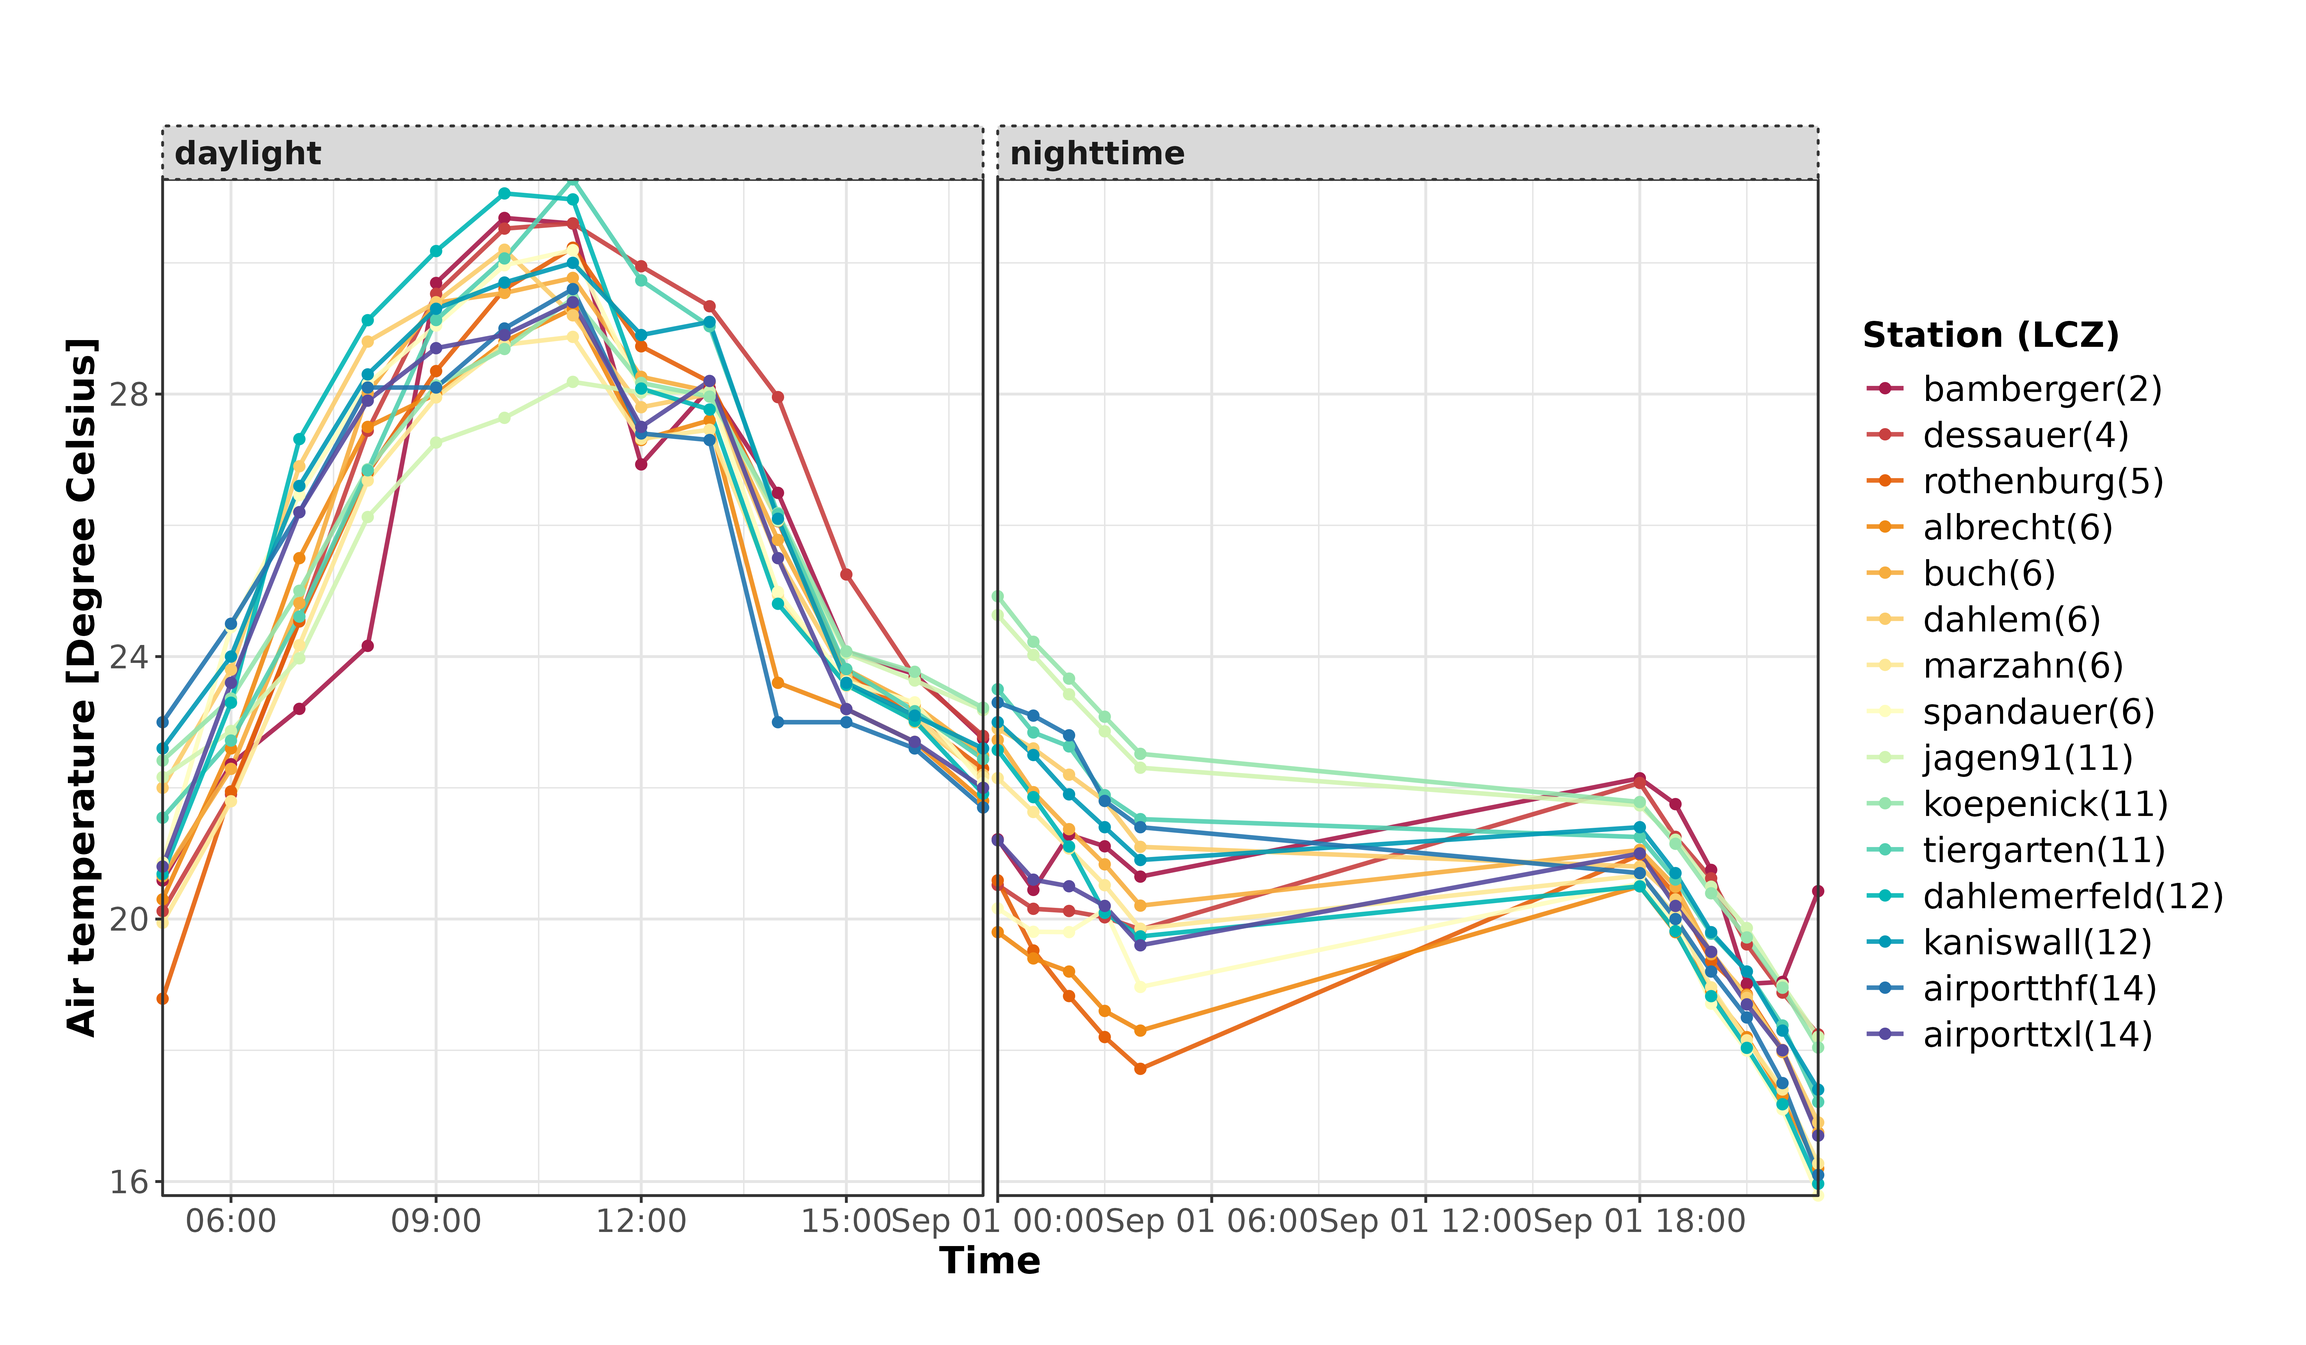
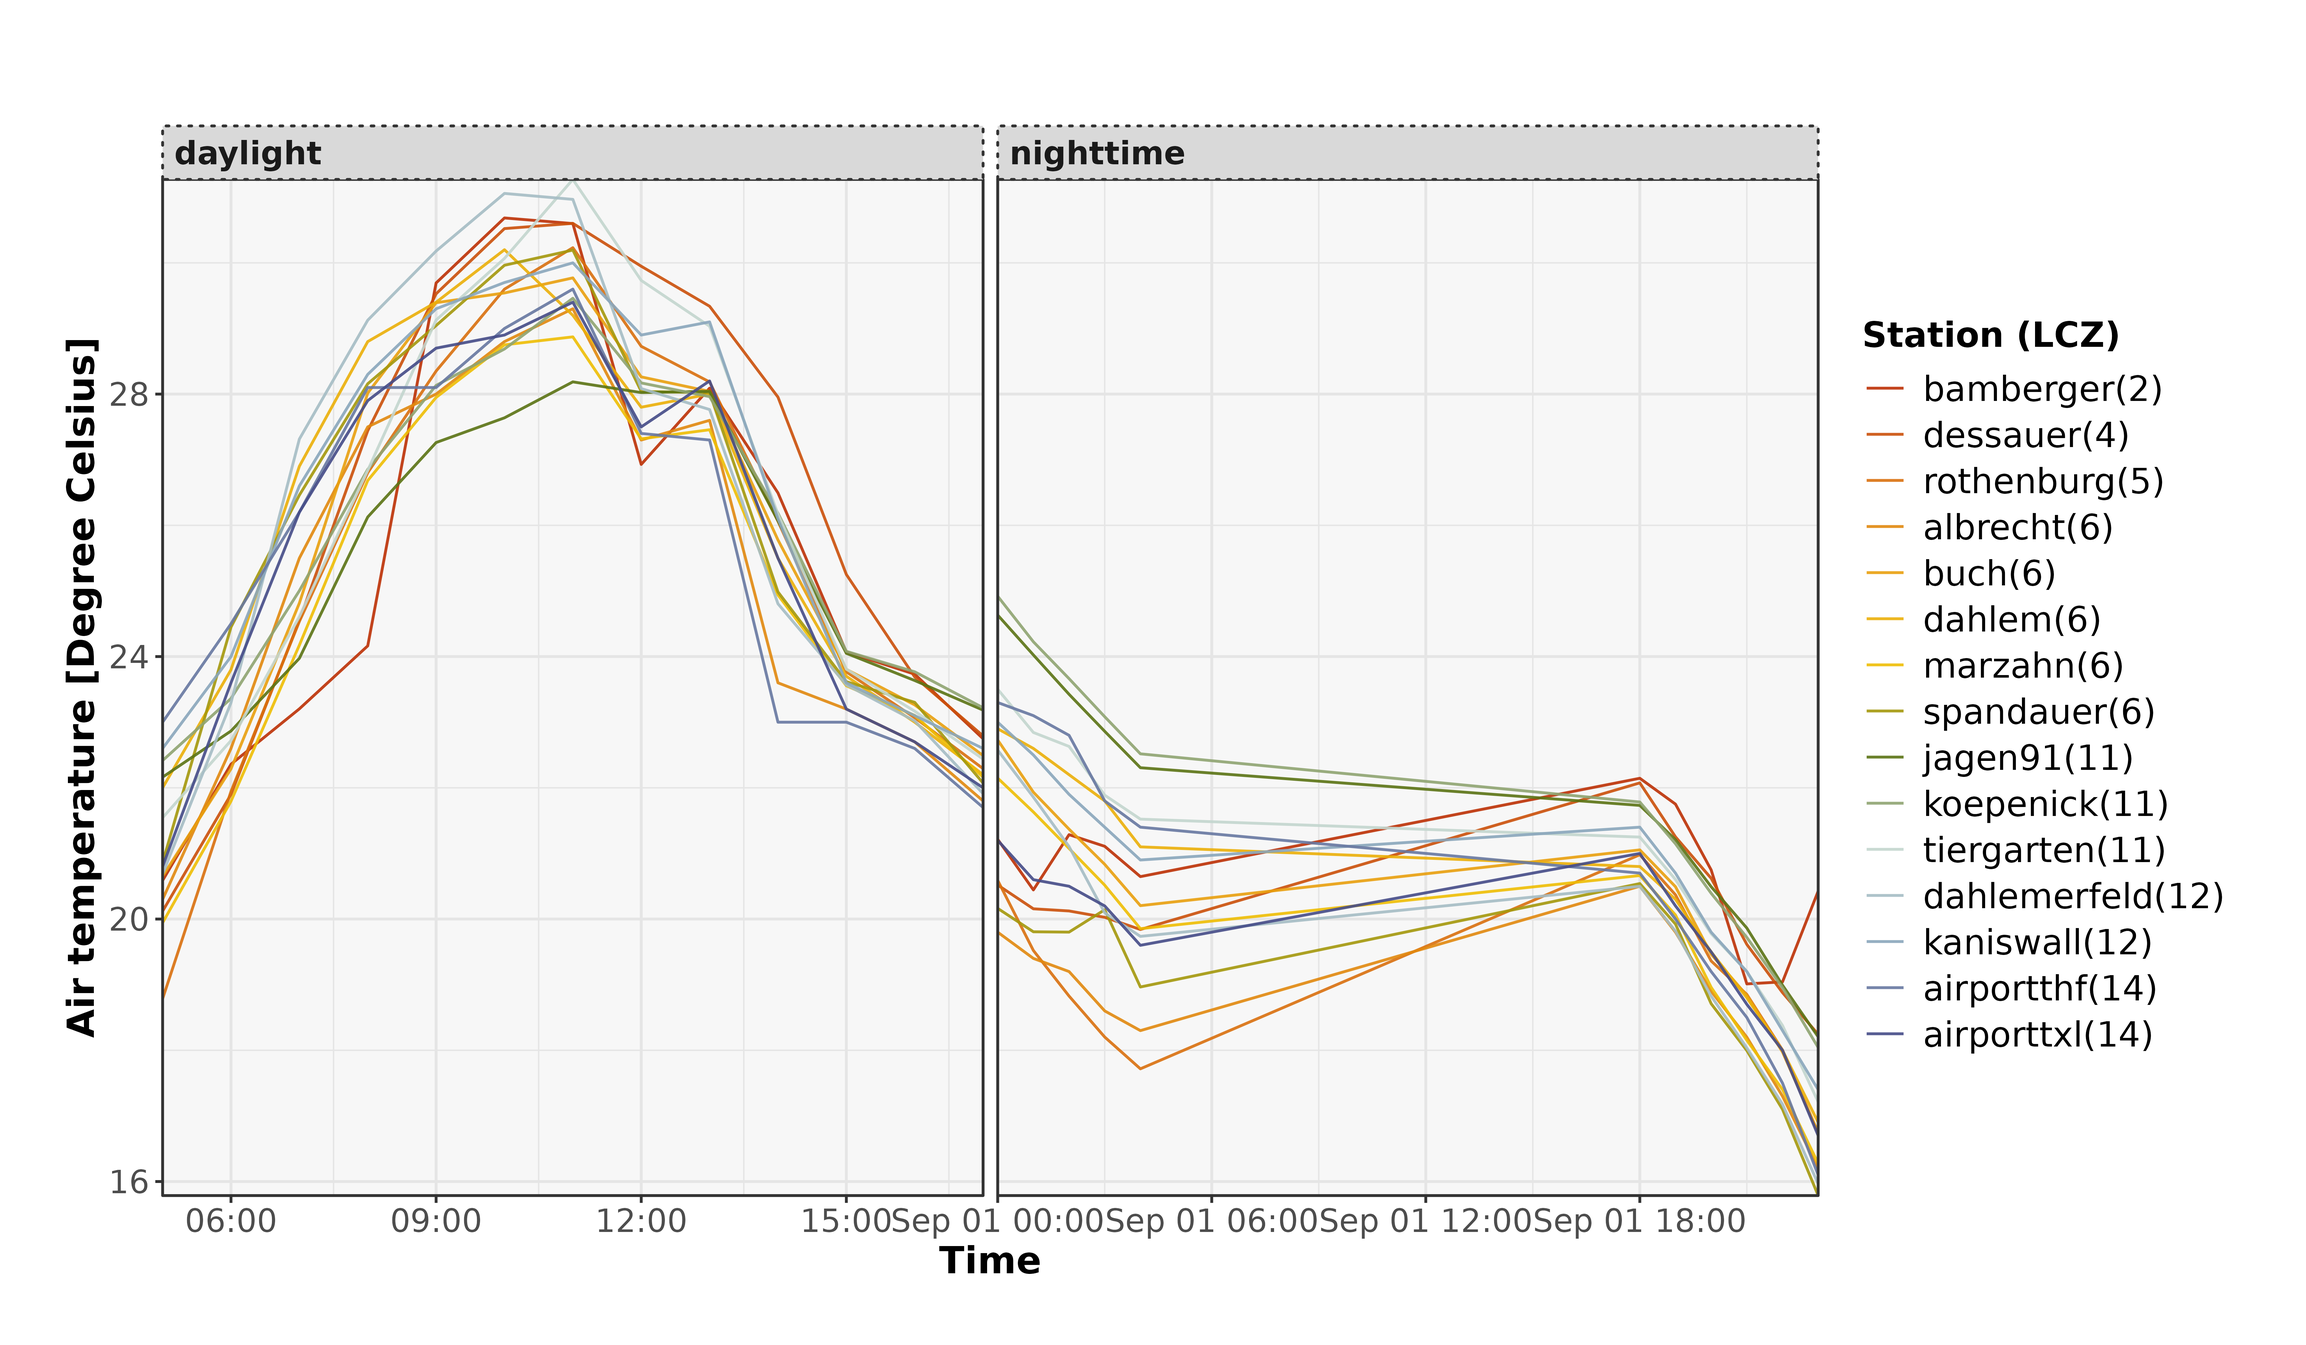
Deploying to gh-pages from @ ByMaxAnjos/LCZ4r@7843a9ae664aeb94a55305f6e3a9da8e8d025f74 🚀

Changed region(s): [[0.0625, 0.1248, 0.8125, 0.8733]]

diff --git a/reference/lcz_tutorial.html b/reference/lcz_tutorial.html
@@ -1,0 +1,99 @@
+<!DOCTYPE html>
+<!-- Generated by pkgdown: do not edit by hand --><html lang="en"><head><meta http-equiv="Content-Type" content="text/html; charset=UTF-8"><meta charset="utf-8"><meta http-equiv="X-UA-Compatible" content="IE=edge"><meta name="viewport" content="width=device-width, initial-scale=1, shrink-to-fit=no"><meta name="description" content="Opens LCZ4r tutorial on a web browser. This function requires internet connection"><title>LCZ4r tutorials — lcz_tutorial • LCZ4r</title><script src="../deps/jquery-3.6.0/jquery-3.6.0.min.js"></script><meta name="viewport" content="width=device-width, initial-scale=1, shrink-to-fit=no"><link href="../deps/bootstrap-5.3.1/bootstrap.min.css" rel="stylesheet"><script src="../deps/bootstrap-5.3.1/bootstrap.bundle.min.js"></script><!-- Font Awesome icons --><link rel="stylesheet" href="https://cdnjs.cloudflare.com/ajax/libs/font-awesome/5.12.1/css/all.min.css" integrity="sha256-mmgLkCYLUQbXn0B1SRqzHar6dCnv9oZFPEC1g1cwlkk=" crossorigin="anonymous"><link rel="stylesheet" href="https://cdnjs.cloudflare.com/ajax/libs/font-awesome/5.12.1/css/v4-shims.min.css" integrity="sha256-wZjR52fzng1pJHwx4aV2AO3yyTOXrcDW7jBpJtTwVxw=" crossorigin="anonymous"><!-- bootstrap-toc --><script src="https://cdn.jsdelivr.net/gh/afeld/bootstrap-toc@v1.0.1/dist/bootstrap-toc.min.js" integrity="sha256-4veVQbu7//Lk5TSmc7YV48MxtMy98e26cf5MrgZYnwo=" crossorigin="anonymous"></script><!-- headroom.js --><script src="https://cdnjs.cloudflare.com/ajax/libs/headroom/0.11.0/headroom.min.js" integrity="sha256-AsUX4SJE1+yuDu5+mAVzJbuYNPHj/WroHuZ8Ir/CkE0=" crossorigin="anonymous"></script><script src="https://cdnjs.cloudflare.com/ajax/libs/headroom/0.11.0/jQuery.headroom.min.js" integrity="sha256-ZX/yNShbjqsohH1k95liqY9Gd8uOiE1S4vZc+9KQ1K4=" crossorigin="anonymous"></script><!-- clipboard.js --><script src="https://cdnjs.cloudflare.com/ajax/libs/clipboard.js/2.0.11/clipboard.min.js" integrity="sha512-7O5pXpc0oCRrxk8RUfDYFgn0nO1t+jLuIOQdOMRp4APB7uZ4vSjspzp5y6YDtDs4VzUSTbWzBFZ/LKJhnyFOKw==" crossorigin="anonymous" referrerpolicy="no-referrer"></script><!-- search --><script src="https://cdnjs.cloudflare.com/ajax/libs/fuse.js/6.4.6/fuse.js" integrity="sha512-zv6Ywkjyktsohkbp9bb45V6tEMoWhzFzXis+LrMehmJZZSys19Yxf1dopHx7WzIKxr5tK2dVcYmaCk2uqdjF4A==" crossorigin="anonymous"></script><script src="https://cdnjs.cloudflare.com/ajax/libs/autocomplete.js/0.38.0/autocomplete.jquery.min.js" integrity="sha512-GU9ayf+66Xx2TmpxqJpliWbT5PiGYxpaG8rfnBEk1LL8l1KGkRShhngwdXK1UgqhAzWpZHSiYPc09/NwDQIGyg==" crossorigin="anonymous"></script><script src="https://cdnjs.cloudflare.com/ajax/libs/mark.js/8.11.1/mark.min.js" integrity="sha512-5CYOlHXGh6QpOFA/TeTylKLWfB3ftPsde7AnmhuitiTX4K5SqCLBeKro6sPS8ilsz1Q4NRx3v8Ko2IBiszzdww==" crossorigin="anonymous"></script><!-- pkgdown --><script src="../pkgdown.js"></script><meta property="og:title" content="LCZ4r tutorials — lcz_tutorial"><meta property="og:description" content="Opens LCZ4r tutorial on a web browser. This function requires internet connection"><!-- mathjax --><script src="https://cdnjs.cloudflare.com/ajax/libs/mathjax/2.7.5/MathJax.js" integrity="sha256-nvJJv9wWKEm88qvoQl9ekL2J+k/RWIsaSScxxlsrv8k=" crossorigin="anonymous"></script><script src="https://cdnjs.cloudflare.com/ajax/libs/mathjax/2.7.5/config/TeX-AMS-MML_HTMLorMML.js" integrity="sha256-84DKXVJXs0/F8OTMzX4UR909+jtl4G7SPypPavF+GfA=" crossorigin="anonymous"></script><!--[if lt IE 9]>
+<script src="https://oss.maxcdn.com/html5shiv/3.7.3/html5shiv.min.js"></script>
+<script src="https://oss.maxcdn.com/respond/1.4.2/respond.min.js"></script>
+<![endif]--></head><body>
+    <a href="#main" class="visually-hidden-focusable">Skip to contents</a>
+    
+
+    <nav class="navbar fixed-top navbar-dark navbar-expand-lg bg-primary" data-bs-theme="dark"><div class="container">
+    
+    <a class="navbar-brand me-2" href="../index.html">LCZ4r</a>
+
+    <small class="nav-text text-muted me-auto" data-bs-toggle="tooltip" data-bs-placement="bottom" title="Released version">0.1.0</small>
+
+    
+    <button class="navbar-toggler" type="button" data-bs-toggle="collapse" data-bs-target="#navbar" aria-controls="navbar" aria-expanded="false" aria-label="Toggle navigation">
+      <span class="navbar-toggler-icon"></span>
+    </button>
+
+    <div id="navbar" class="collapse navbar-collapse ms-3">
+      <ul class="navbar-nav me-auto"><li class="active nav-item">
+  <a class="nav-link" href="../reference/index.html">Reference</a>
+</li>
+<li class="nav-item dropdown">
+  <a href="#" class="nav-link dropdown-toggle" data-bs-toggle="dropdown" role="button" aria-expanded="false" aria-haspopup="true" id="dropdown-articles">Articles</a>
+  <div class="dropdown-menu" aria-labelledby="dropdown-articles">
+    <a class="dropdown-item" href="../articles/Introd_general_LCZ4r.html">LCZ4r General Functions</a>
+    <a class="dropdown-item" href="../articles/Introd_local_LCZ4r.html">LCZ4r Local Functions</a>
+    <a class="dropdown-item" href="../articles/instalation_lcz4r.html">Install LCZ4r</a>
+  </div>
+</li>
+      </ul><form class="form-inline my-2 my-lg-0" role="search">
+        <input type="search" class="form-control me-sm-2" aria-label="Toggle navigation" name="search-input" data-search-index="../search.json" id="search-input" placeholder="Search for" autocomplete="off"></form>
+
+      <ul class="navbar-nav"><li class="nav-item">
+  <a class="external-link nav-link" href="https://github.com/ByMaxAnjos/LCZ4r/" aria-label="github">
+    <span class="fab fa fab fa-github fa-lg"></span>
+     
+  </a>
+</li>
+      </ul></div>
+
+    
+  </div>
+</nav><div class="container template-reference-topic">
+<div class="row">
+  <main id="main" class="col-md-9"><div class="page-header">
+      <img src="" class="logo" alt=""><h1>LCZ4r tutorials</h1>
+      <small class="dont-index">Source: <a href="https://github.com/ByMaxAnjos/LCZ4r/blob/HEAD/R/lcz_tutorial.R" class="external-link"><code>R/lcz_tutorial.R</code></a></small>
+      <div class="d-none name"><code>lcz_tutorial.Rd</code></div>
+    </div>
+
+    <div class="ref-description section level2">
+    <p>Opens LCZ4r tutorial on a web browser. This function requires internet connection</p>
+    </div>
+
+    <div class="section level2">
+    <h2 id="ref-usage">Usage<a class="anchor" aria-label="anchor" href="#ref-usage"></a></h2>
+    <div class="sourceCode"><pre class="sourceCode r"><code><span><span class="fu">lcz_tutorial</span><span class="op">(</span>article <span class="op">=</span> <span class="st">"general"</span><span class="op">)</span></span></code></pre></div>
+    </div>
+
+    <div class="section level2">
+    <h2 id="arguments">Arguments<a class="anchor" aria-label="anchor" href="#arguments"></a></h2>
+    <dl><dt>article</dt>
+<dd><p>String. Default is "general" for general functions. It can be either "local" for local functions</p></dd>
+
+</dl></div>
+    <div class="section level2">
+    <h2 id="value">Value<a class="anchor" aria-label="anchor" href="#value"></a></h2>
+    
+
+<p>Opens LCZ4r tutorial on a web browser</p>
+    </div>
+
+    <div class="section level2">
+    <h2 id="ref-examples">Examples<a class="anchor" aria-label="anchor" href="#ref-examples"></a></h2>
+    <div class="sourceCode"><pre class="sourceCode r"><code><span class="r-in"><span><span class="fu">lcz_tutorial</span><span class="op">(</span>article<span class="op">=</span><span class="st">"general"</span><span class="op">)</span></span></span>
+</code></pre></div>
+    </div>
+  </main><aside class="col-md-3"><nav id="toc"><h2>On this page</h2>
+    </nav></aside></div>
+
+
+    <footer><div class="pkgdown-footer-left">
+  <p>Developed by Max Anjos.</p>
+</div>
+
+<div class="pkgdown-footer-right">
+  <p>Site built with <a href="https://pkgdown.r-lib.org/" class="external-link">pkgdown</a> 2.0.9.</p>
+</div>
+
+    </footer></div>
+
+  
+
+  
+
+  </body></html>
+

diff --git a/reference/lcz_plot_parameters.html b/reference/lcz_plot_parameters.html
@@ -56,7 +56,14 @@
 
     <div class="section level2">
     <h2 id="ref-usage">Usage<a class="anchor" aria-label="anchor" href="#ref-usage"></a></h2>
-    <div class="sourceCode"><pre class="sourceCode r"><code><span><span class="fu">lcz_plot_parameters</span><span class="op">(</span><span class="va">x</span>, iselect <span class="op">=</span> <span class="st">""</span>, all <span class="op">=</span> <span class="cn">FALSE</span>, isave <span class="op">=</span> <span class="cn">FALSE</span>, <span class="va">...</span><span class="op">)</span></span></code></pre></div>
+    <div class="sourceCode"><pre class="sourceCode r"><code><span><span class="fu">lcz_plot_parameters</span><span class="op">(</span></span>
+<span>  <span class="va">x</span>,</span>
+<span>  iselect <span class="op">=</span> <span class="st">""</span>,</span>
+<span>  all <span class="op">=</span> <span class="cn">FALSE</span>,</span>
+<span>  inclusive <span class="op">=</span> <span class="cn">FALSE</span>,</span>
+<span>  isave <span class="op">=</span> <span class="cn">FALSE</span>,</span>
+<span>  <span class="va">...</span></span>
+<span><span class="op">)</span></span></code></pre></div>
     </div>
 
     <div class="section level2">
@@ -67,12 +74,16 @@
 
 <dt>iselect</dt>
 <dd><p>Character vector. Specify one or more parameter names to retrieve specific
-parameters. For example, "SVF1" to get the minimum Sky View Factor,
-or c("z0", "VEG3") to select multiple parameters.</p></dd>
+parameters. For example, "SVF2" to get the minimum Sky View Factor,
+or c("z0", "BSF2") to select multiple parameters.</p></dd>
 
 
 <dt>all</dt>
 <dd><p>Logical, specifying whether to save all selected parameters into LCZ4r_output. Default is FALSE.</p></dd>
+
+
+<dt>inclusive</dt>
+<dd><p>Set to TRUE to a colorblind-friendly palette.</p></dd>
 
 
 <dt>isave</dt>

diff --git a/reference/lcz_plot_interp.html b/reference/lcz_plot_interp.html
@@ -56,7 +56,15 @@
 
     <div class="section level2">
     <h2 id="ref-usage">Usage<a class="anchor" aria-label="anchor" href="#ref-usage"></a></h2>
-    <div class="sourceCode"><pre class="sourceCode r"><code><span><span class="fu">lcz_plot_interp</span><span class="op">(</span><span class="va">x</span>, palette <span class="op">=</span> <span class="st">"muted"</span>, ncol <span class="op">=</span> <span class="fl">2</span>, nrow <span class="op">=</span> <span class="fl">3</span>, isave <span class="op">=</span> <span class="cn">FALSE</span>, <span class="va">...</span><span class="op">)</span></span></code></pre></div>
+    <div class="sourceCode"><pre class="sourceCode r"><code><span><span class="fu">lcz_plot_interp</span><span class="op">(</span></span>
+<span>  <span class="va">x</span>,</span>
+<span>  palette <span class="op">=</span> <span class="st">"muted"</span>,</span>
+<span>  direction <span class="op">=</span> <span class="fl">1</span>,</span>
+<span>  ncol <span class="op">=</span> <span class="fl">2</span>,</span>
+<span>  nrow <span class="op">=</span> <span class="fl">3</span>,</span>
+<span>  isave <span class="op">=</span> <span class="cn">FALSE</span>,</span>
+<span>  <span class="va">...</span></span>
+<span><span class="op">)</span></span></code></pre></div>
     </div>
 
     <div class="section level2">
@@ -67,6 +75,10 @@
 
 <dt>palette</dt>
 <dd><p>Gradient palettes available in the tidyterra package. Default is "muted". More palettes can be found in the tidyterra documentation: https://dieghernan.github.io/tidyterra/articles/palettes.html#scale_fill_whitebox_</p></dd>
+
+
+<dt>direction</dt>
+<dd><p>Sets order of colors. Default palette is 1. If direction is -1, palette color order is reversed</p></dd>
 
 
 <dt>ncol</dt>

diff --git a/reference/lcz_ts.html b/reference/lcz_ts.html
@@ -67,8 +67,7 @@
 <span>  impute <span class="op">=</span> <span class="cn">NULL</span>,</span>
 <span>  iplot <span class="op">=</span> <span class="cn">FALSE</span>,</span>
 <span>  isave <span class="op">=</span> <span class="cn">FALSE</span>,</span>
-<span>  palette <span class="op">=</span> <span class="st">"Spectral"</span>,</span>
-<span>  inclusive <span class="op">=</span> <span class="cn">FALSE</span>,</span>
+<span>  palette <span class="op">=</span> <span class="st">"VanGogh2"</span>,</span>
 <span>  ylab <span class="op">=</span> <span class="st">"Air temperature [Degree Celsius]"</span>,</span>
 <span>  xlab <span class="op">=</span> <span class="st">"Time"</span>,</span>
 <span>  title <span class="op">=</span> <span class="st">""</span>,</span>
@@ -122,11 +121,7 @@ Can either be numeric e.g. month = 1:6 to select months 1-6 (January to June), o
 
 
 <dt>palette</dt>
-<dd><p>Define your qualitative color palette. Default is "Spectral". There are more 100 color-palettes grDevices::hcl.pals()</p></dd>
-
-
-<dt>inclusive</dt>
-<dd><p>Set to TRUE to a colorblind-friendly palette.</p></dd>
+<dd><p>Default is "VanGogh2". Define your color palette from MetBrewer https://github.com/BlakeRMills/MetBrewer?tab=readme-ov-file#palettes.</p></dd>
 
 
 <dt>ylab</dt>

diff --git a/articles/instalation_lcz4r.html b/articles/instalation_lcz4r.html
@@ -73,7 +73,7 @@
       <img src="" class="logo" alt=""><h1>Install LCZ4r and input data requirements</h1>
                         <h4 data-toc-skip class="author">Max Anjos</h4>
             
-            <h4 data-toc-skip class="date">April 30, 2024</h4>
+            <h4 data-toc-skip class="date">May 06, 2024</h4>
       
       <small class="dont-index">Source: <a href="https://github.com/ByMaxAnjos/LCZ4r/blob/HEAD/vignettes/instalation_lcz4r.Rmd" class="external-link"><code>vignettes/instalation_lcz4r.Rmd</code></a></small>
       <div class="d-none name"><code>instalation_lcz4r.Rmd</code></div>

diff --git a/articles/Introd_general_LCZ4r.html b/articles/Introd_general_LCZ4r.html
@@ -73,7 +73,7 @@
       <img src="" class="logo" alt=""><h1>LCZ4r General Functions</h1>
                         <h4 data-toc-skip class="author">Max Anjos</h4>
             
-            <h4 data-toc-skip class="date">April 30, 2024</h4>
+            <h4 data-toc-skip class="date">May 06, 2024</h4>
       
       <small class="dont-index">Source: <a href="https://github.com/ByMaxAnjos/LCZ4r/blob/HEAD/vignettes/Introd_general_LCZ4r.Rmd" class="external-link"><code>vignettes/Introd_general_LCZ4r.Rmd</code></a></small>
       <div class="d-none name"><code>Introd_general_LCZ4r.Rmd</code></div>

diff --git a/articles/Introd_local_LCZ4r.html b/articles/Introd_local_LCZ4r.html
@@ -73,7 +73,7 @@
       <img src="" class="logo" alt=""><h1>LCZ4r Local Functions</h1>
                         <h4 data-toc-skip class="author">Max Anjos</h4>
             
-            <h4 data-toc-skip class="date">April 30, 2024</h4>
+            <h4 data-toc-skip class="date">May 06, 2024</h4>
       
       <small class="dont-index">Source: <a href="https://github.com/ByMaxAnjos/LCZ4r/blob/HEAD/vignettes/Introd_local_LCZ4r.Rmd" class="external-link"><code>vignettes/Introd_local_LCZ4r.Rmd</code></a></small>
       <div class="d-none name"><code>Introd_local_LCZ4r.Rmd</code></div>

diff --git a/reference/index.html b/reference/index.html
@@ -129,6 +129,11 @@
           <code><a href="lcz_ts.html">lcz_ts()</a></code> 
         </dt>
         <dd>Analyze LCZ Time Series</dd>
+      </dl><dl><dt>
+          
+          <code><a href="lcz_tutorial.html">lcz_tutorial()</a></code> 
+        </dt>
+        <dd>LCZ4r tutorials</dd>
       </dl></div>
   </main></div>
 
